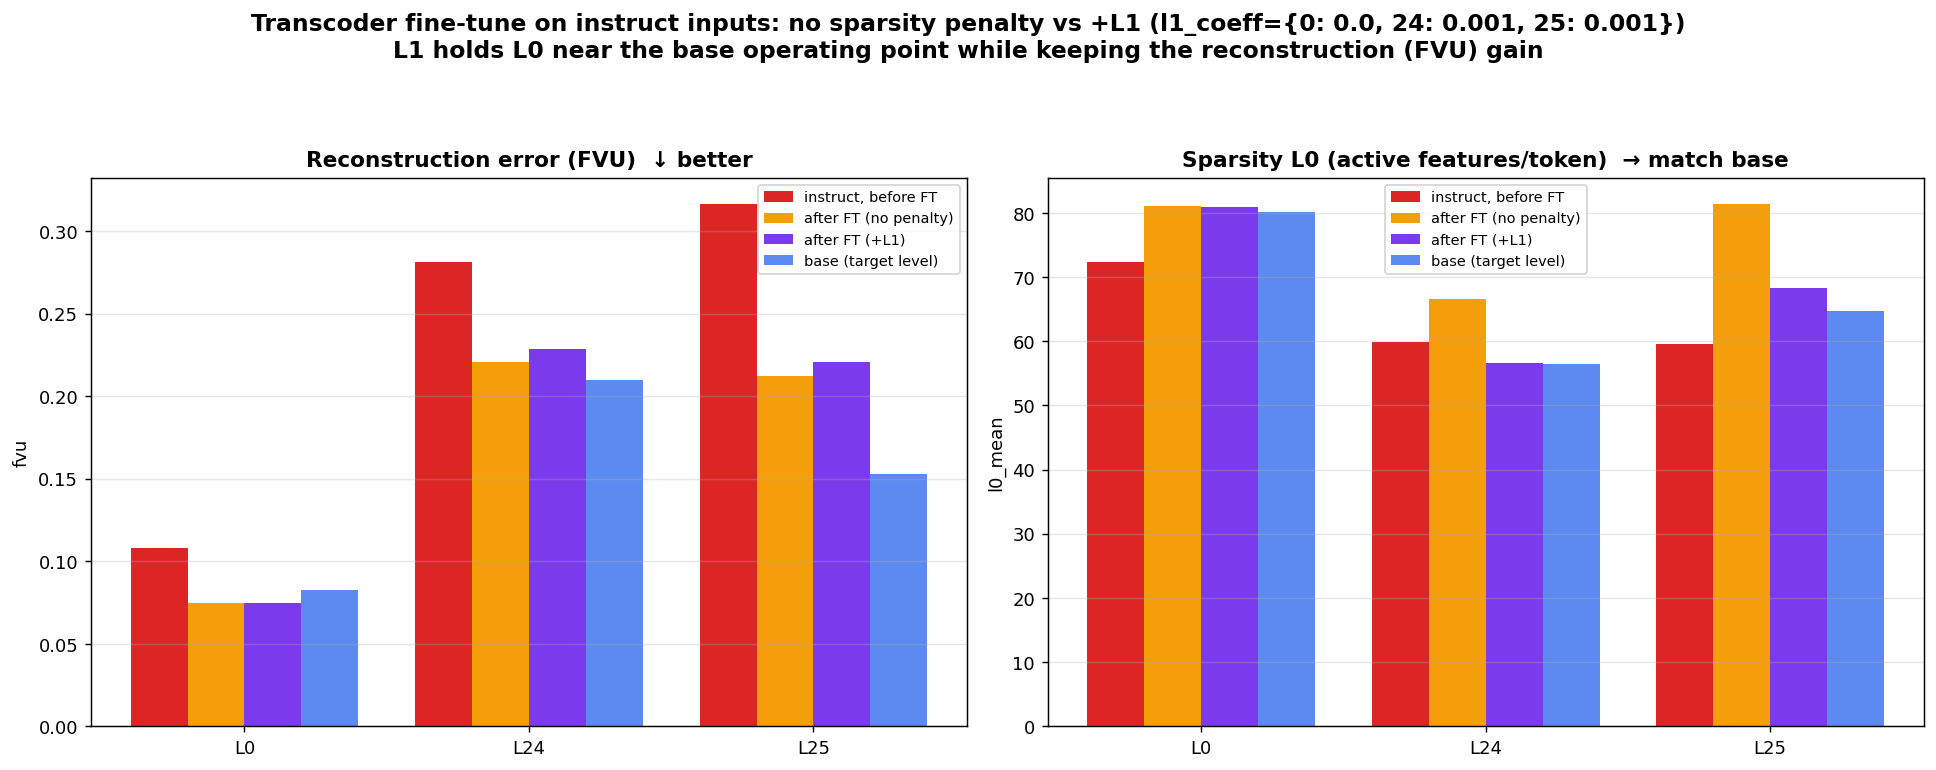
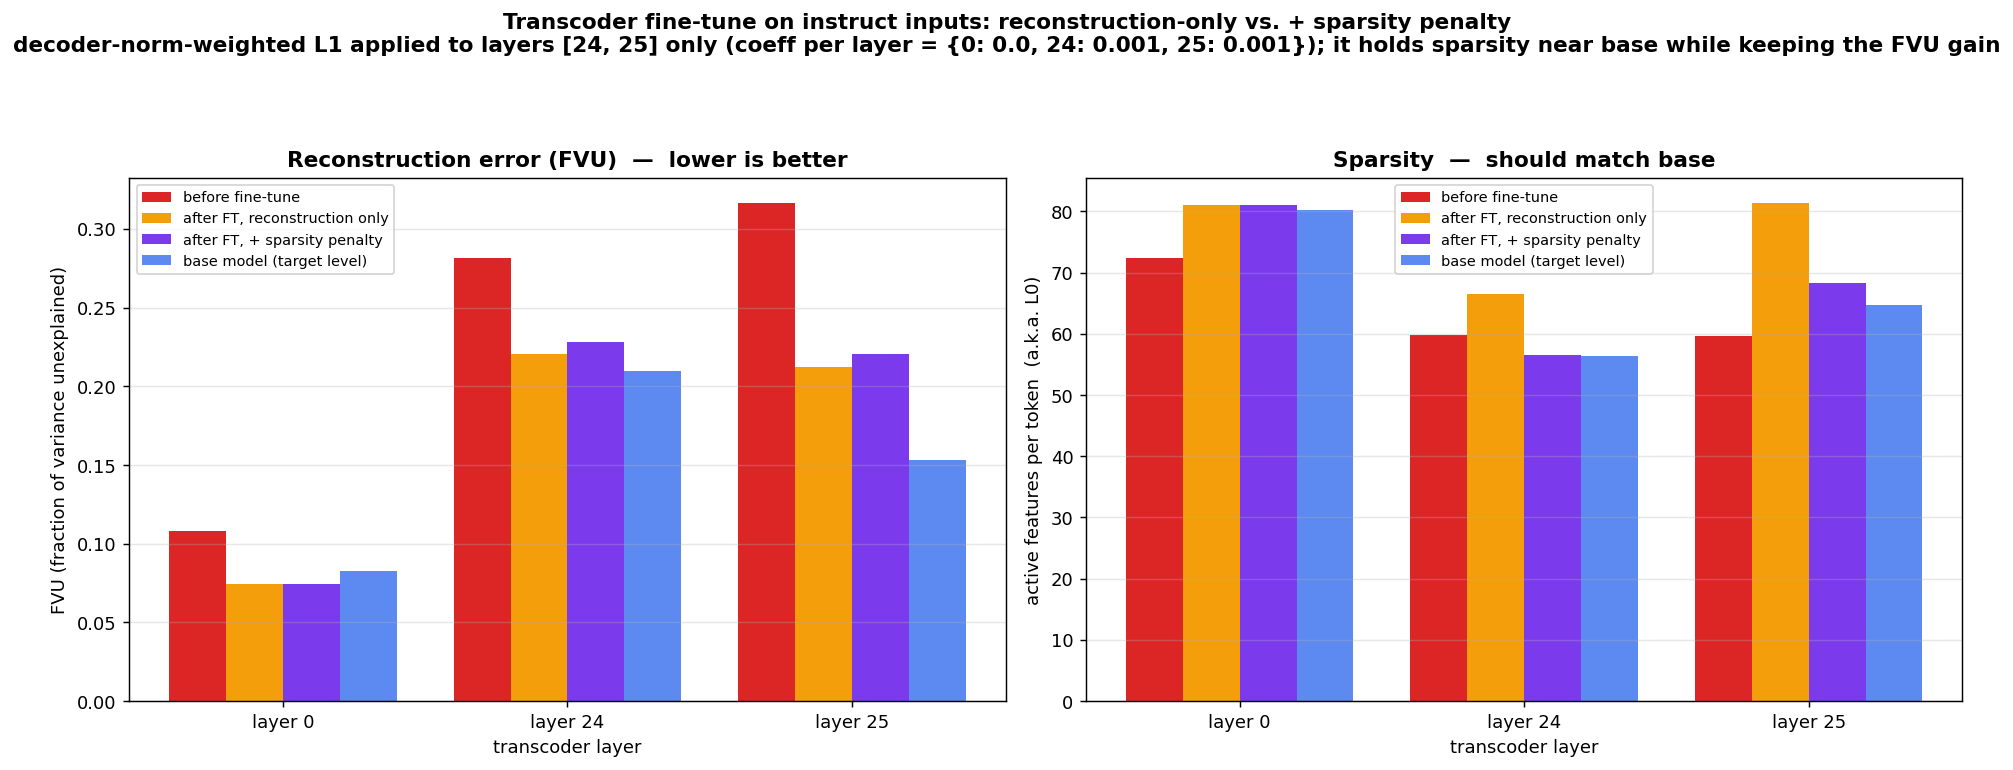
[implement: new 07/02 gemmascope transcoder experiments]: disambiguate sparsity-comparison figure labels
Fix the L#-overload confusion: x-axis 'L0/L24/L25' -> 'layer 0/24/25' (+ 'transcoder layer'
axis label); legend '+L1' -> '+ sparsity penalty'; right y-axis -> 'active features per token
(a.k.a. L0)'. 'L1' now appears only in the subtitle as the penalty name. No numbers changed.

diff --git a/analysis/features/plot_finetune_sparsity_comparison.py b/analysis/features/plot_finetune_sparsity_comparison.py
@@ -61,25 +61,29 @@ def main() -> None:
         base = [base_src[str(L)][base_key] for L in layers]                 # base model + original transcoder
         return before, after_nopen, after_l1, base
 
+    penalized = [L for L in layers if isinstance(l1_coeff, dict) and l1_coeff.get(L, 0) > 0]
     fig, axes = plt.subplots(1, 2, figsize=(15, 6))
     fig.suptitle(
-        f"Transcoder fine-tune on instruct inputs: no sparsity penalty vs +L1 (l1_coeff={l1_coeff})\n"
-        "L1 holds L0 near the base operating point while keeping the reconstruction (FVU) gain",
-        fontsize=13, fontweight="bold",
+        "Transcoder fine-tune on instruct inputs: reconstruction-only vs. + sparsity penalty\n"
+        f"decoder-norm-weighted L1 applied to layers {penalized or '(per l1_coeff)'} only "
+        f"(coeff per layer = {l1_coeff}); it holds sparsity near base while keeping the FVU gain",
+        fontsize=12, fontweight="bold",
     )
-    specs = [("fvu", "fvu", "Reconstruction error (FVU)  ↓ better", axes[0]),
-             ("l0_mean", "l0_mean", "Sparsity L0 (active features/token)  → match base", axes[1])]
+    # (metric key in report, base-source key, panel title, y-label, axis)
+    specs = [("fvu", "fvu", "Reconstruction error (FVU)  —  lower is better", "FVU (fraction of variance unexplained)", axes[0]),
+             ("l0_mean", "l0_mean", "Sparsity  —  should match base", "active features per token  (a.k.a. L0)", axes[1])]
     x = range(len(layers))
     w = 0.2
-    for metric_key, base_key, title, ax in specs:
+    for metric_key, base_key, title, ylabel, ax in specs:
         before, after_nopen, after_l1, base = series(metric_key, base_key)
-        ax.bar([xi - 1.5 * w for xi in x], before, w, color=BEFORE_C, label="instruct, before FT")
-        ax.bar([xi - 0.5 * w for xi in x], after_nopen, w, color=NOPEN_C, label="after FT (no penalty)")
-        ax.bar([xi + 0.5 * w for xi in x], after_l1, w, color=L1_C, label="after FT (+L1)")
-        ax.bar([xi + 1.5 * w for xi in x], base, w, color=BASE_C, alpha=0.75, label="base (target level)")
-        ax.set_xticks(list(x)); ax.set_xticklabels([f"L{L}" for L in layers])
+        ax.bar([xi - 1.5 * w for xi in x], before, w, color=BEFORE_C, label="before fine-tune")
+        ax.bar([xi - 0.5 * w for xi in x], after_nopen, w, color=NOPEN_C, label="after FT, reconstruction only")
+        ax.bar([xi + 0.5 * w for xi in x], after_l1, w, color=L1_C, label="after FT, + sparsity penalty")
+        ax.bar([xi + 1.5 * w for xi in x], base, w, color=BASE_C, alpha=0.75, label="base model (target level)")
+        ax.set_xticks(list(x)); ax.set_xticklabels([f"layer {L}" for L in layers])
+        ax.set_xlabel("transcoder layer")
         ax.set_title(title, fontweight="bold")
-        ax.set_ylabel(metric_key)
+        ax.set_ylabel(ylabel)
         ax.grid(alpha=0.3, axis="y")
         ax.legend(fontsize=8)
     fig.tight_layout(rect=(0, 0, 1, 0.92))
